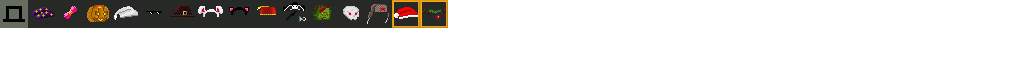
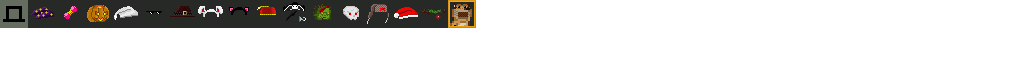
putting in gnoll costume accessory

Changed region(s): [[0.375, 0.0, 0.4688, 0.4375]]

diff --git a/PixelDungeon/src/main/java/com/nyrds/pixeldungeon/items/accessories/Accessory.java b/PixelDungeon/src/main/java/com/nyrds/pixeldungeon/items/accessories/Accessory.java
@@ -49,6 +49,7 @@ public class Accessory {
 		registerAccessory(Ushanka.class);
 		registerAccessory(SantaHat.class);
 		registerAccessory(Rudolph.class);
+		registerAccessory(GnollCostume.class);
 	}
 
 	public static List<String> getAccessoriesList() {

diff --git a/PixelDungeon/src/main/java/com/nyrds/pixeldungeon/items/accessories/GnollCostume.java b/PixelDungeon/src/main/java/com/nyrds/pixeldungeon/items/accessories/GnollCostume.java
@@ -1,0 +1,13 @@
+package com.nyrds.pixeldungeon.items.accessories;
+
+/**
+ * Created by DeadDie on 26.05.2016
+ */
+public class GnollCostume extends Accessory{
+
+    {
+        coverHair = true;
+        image = 16;
+    }
+
+}
